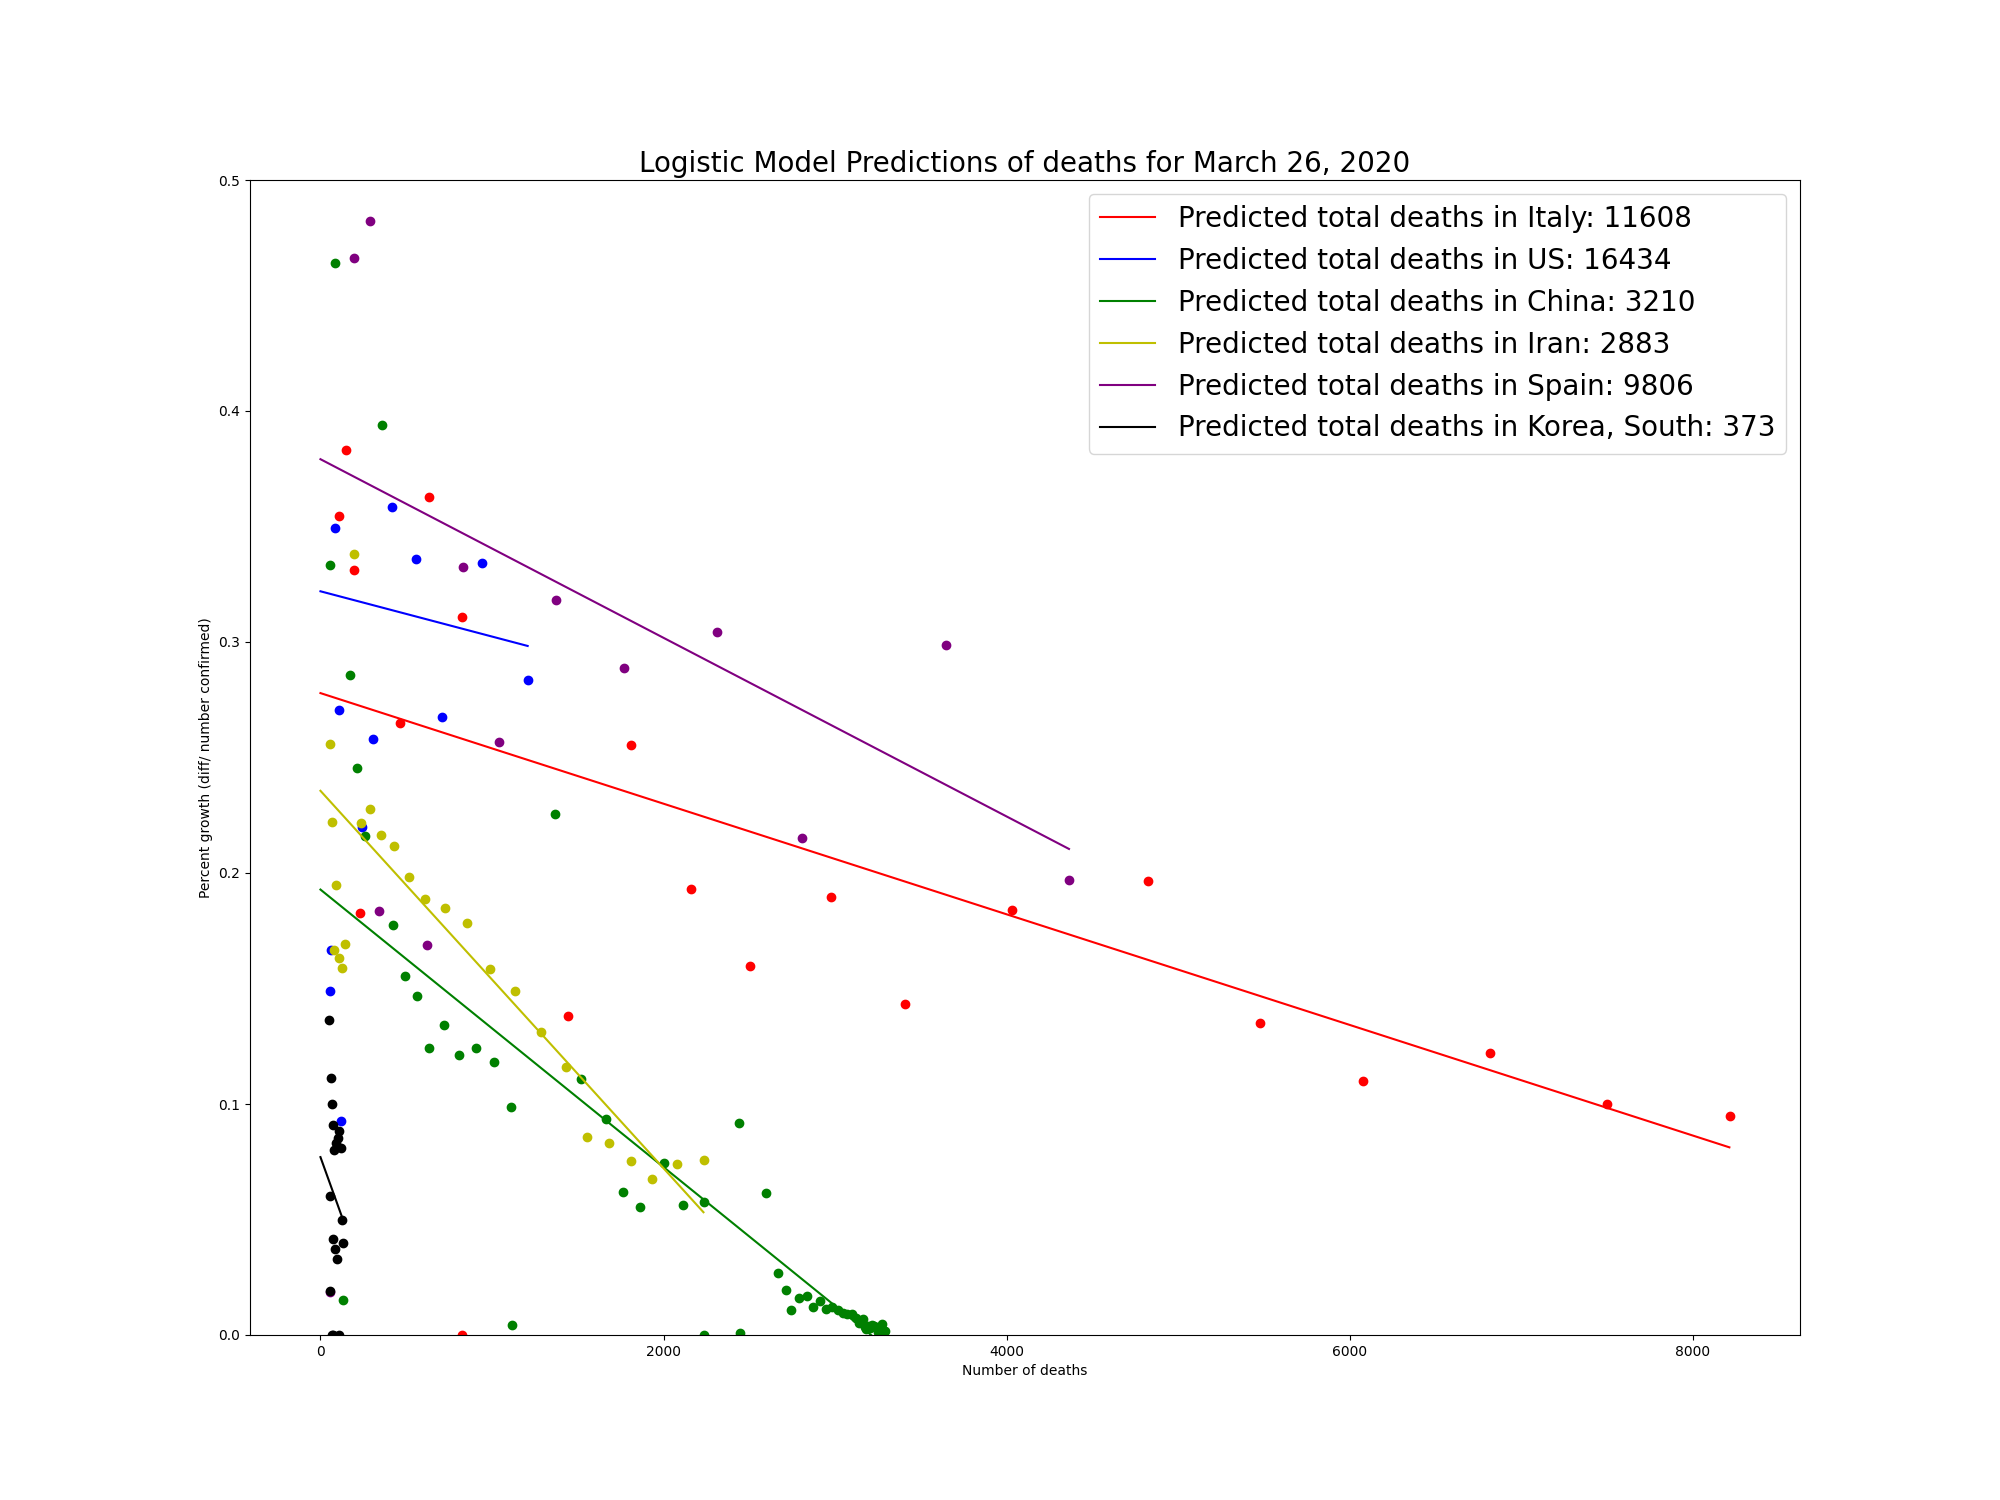
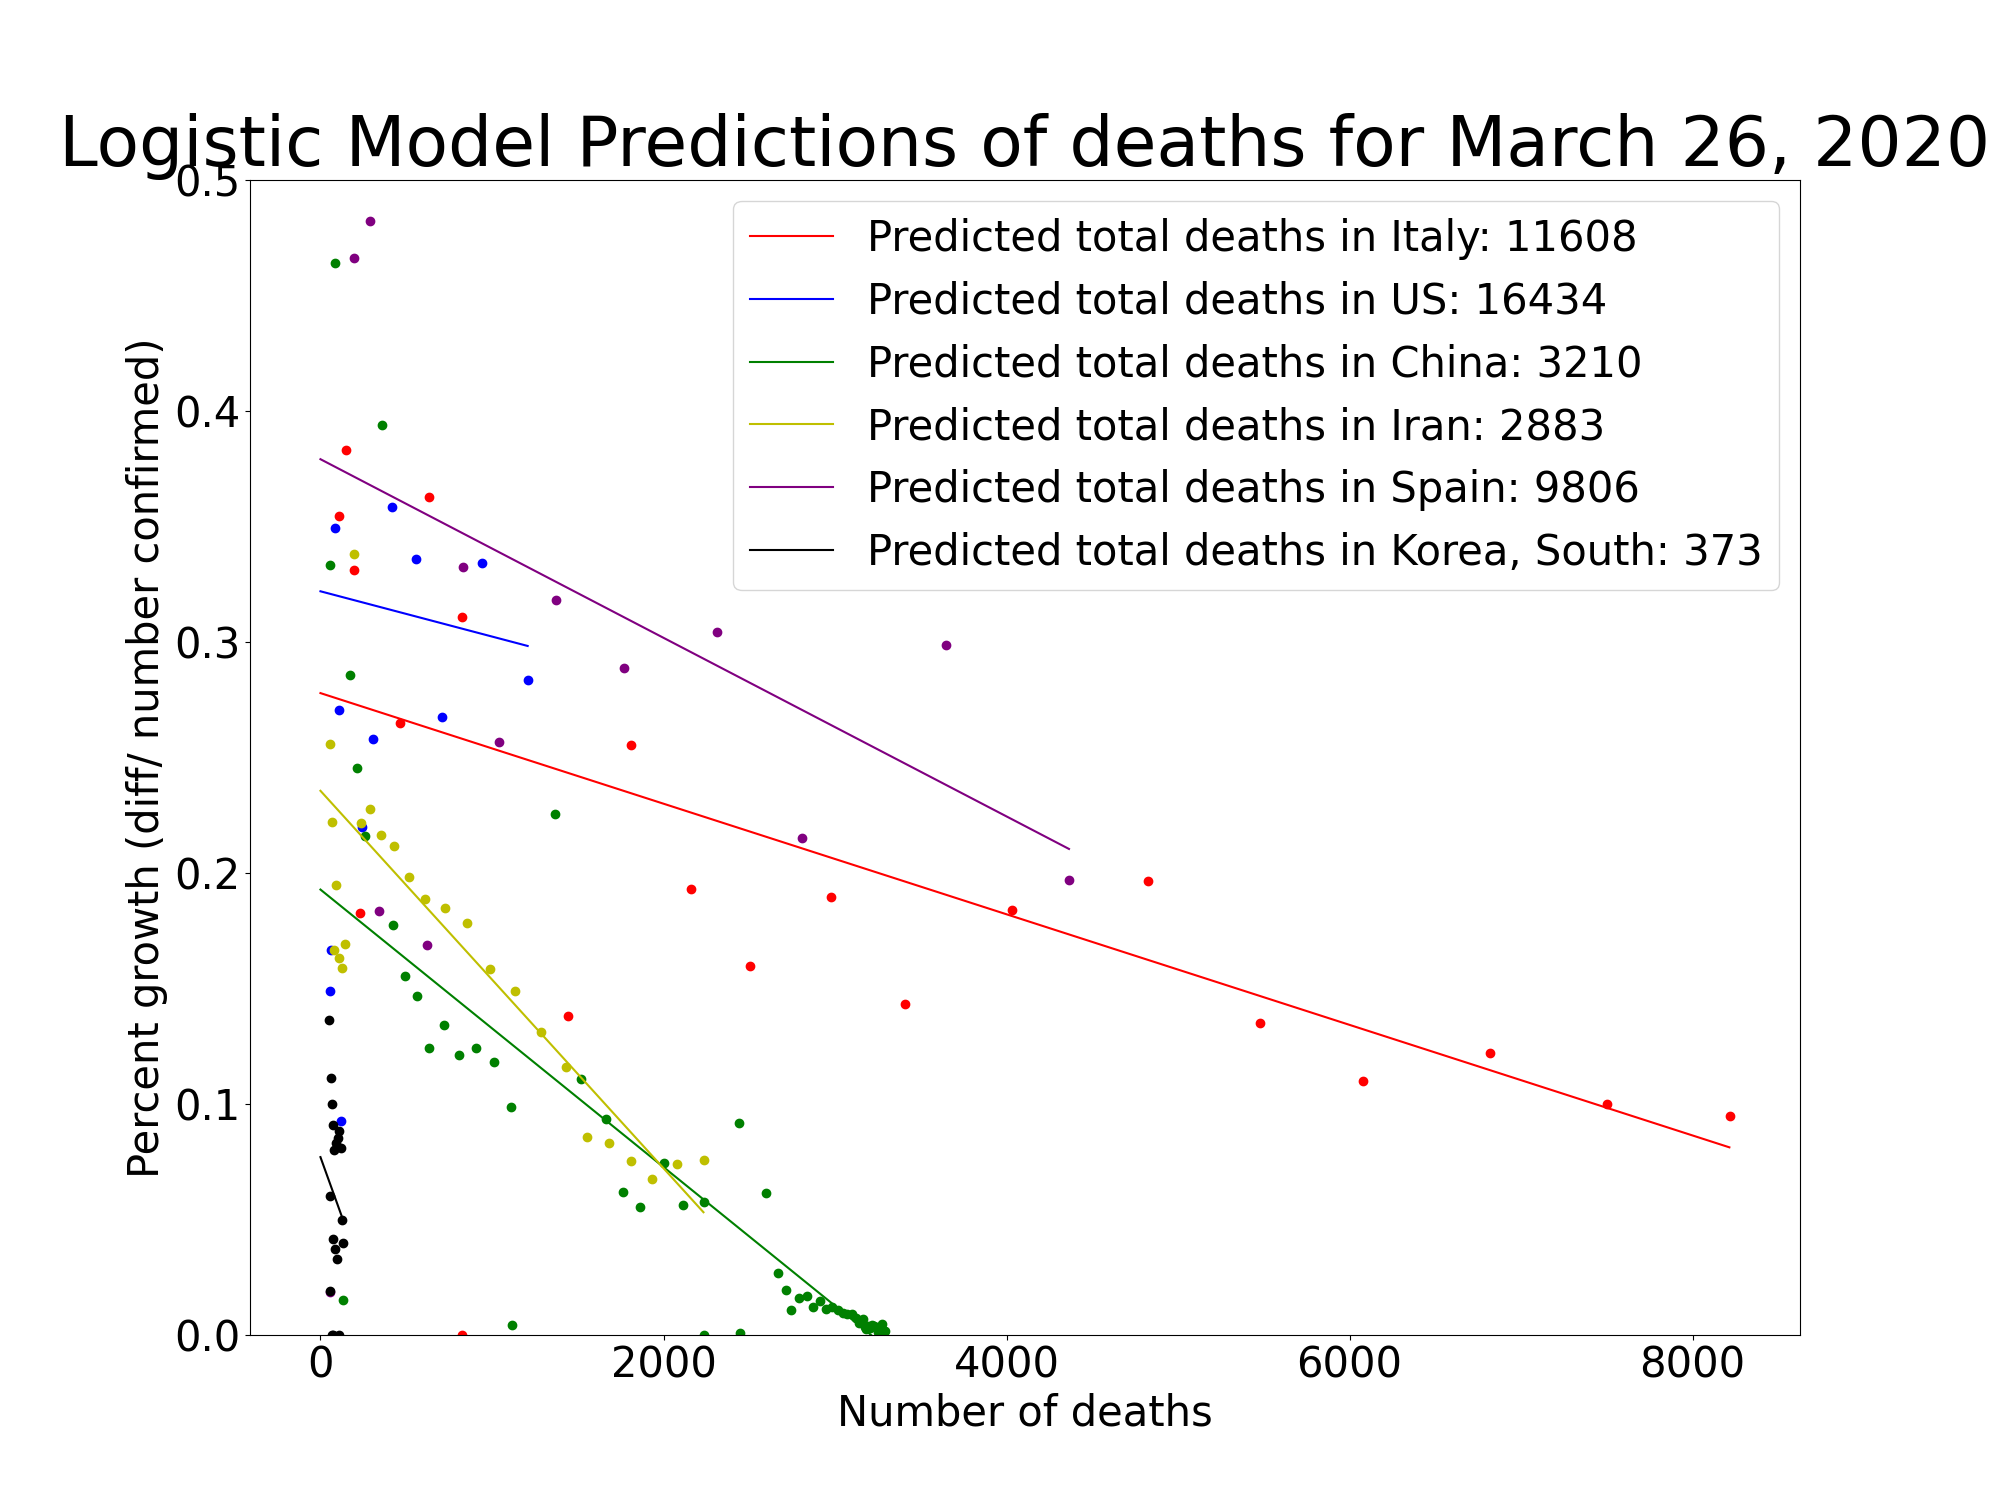
auto update

diff --git a/update_plots.py b/update_plots.py
@@ -21,6 +21,7 @@ s=requests.get(url).content
 d =pd.read_csv(io.StringIO(s.decode('utf-8')))
 model = LinearRegression()
 today = datetime.datetime.today().strftime("%B %d, %Y")
+plt.rcParams.update({'font.size': 30})
 for data_type in ('cases', 'deaths'):
   legends = []
   plt.figure(figsize=(20,15))
@@ -57,6 +58,6 @@ for data_type in ('cases', 'deaths'):
     plt.ylabel('Percent growth (diff/ number confirmed)')
     plt.grid()
     plt.ylim([0, .5])
-  plt.legend(legends, fontsize=20)
-  plt.title('Logistic Model Predictions of %s for %s' % (data_type, today), fontsize=20)
+  plt.legend(legends)
+  plt.title('Logistic Model Predictions of %s for %s' % (data_type, today), fontsize=50)
   plt.savefig('%s.png' % data_type)
